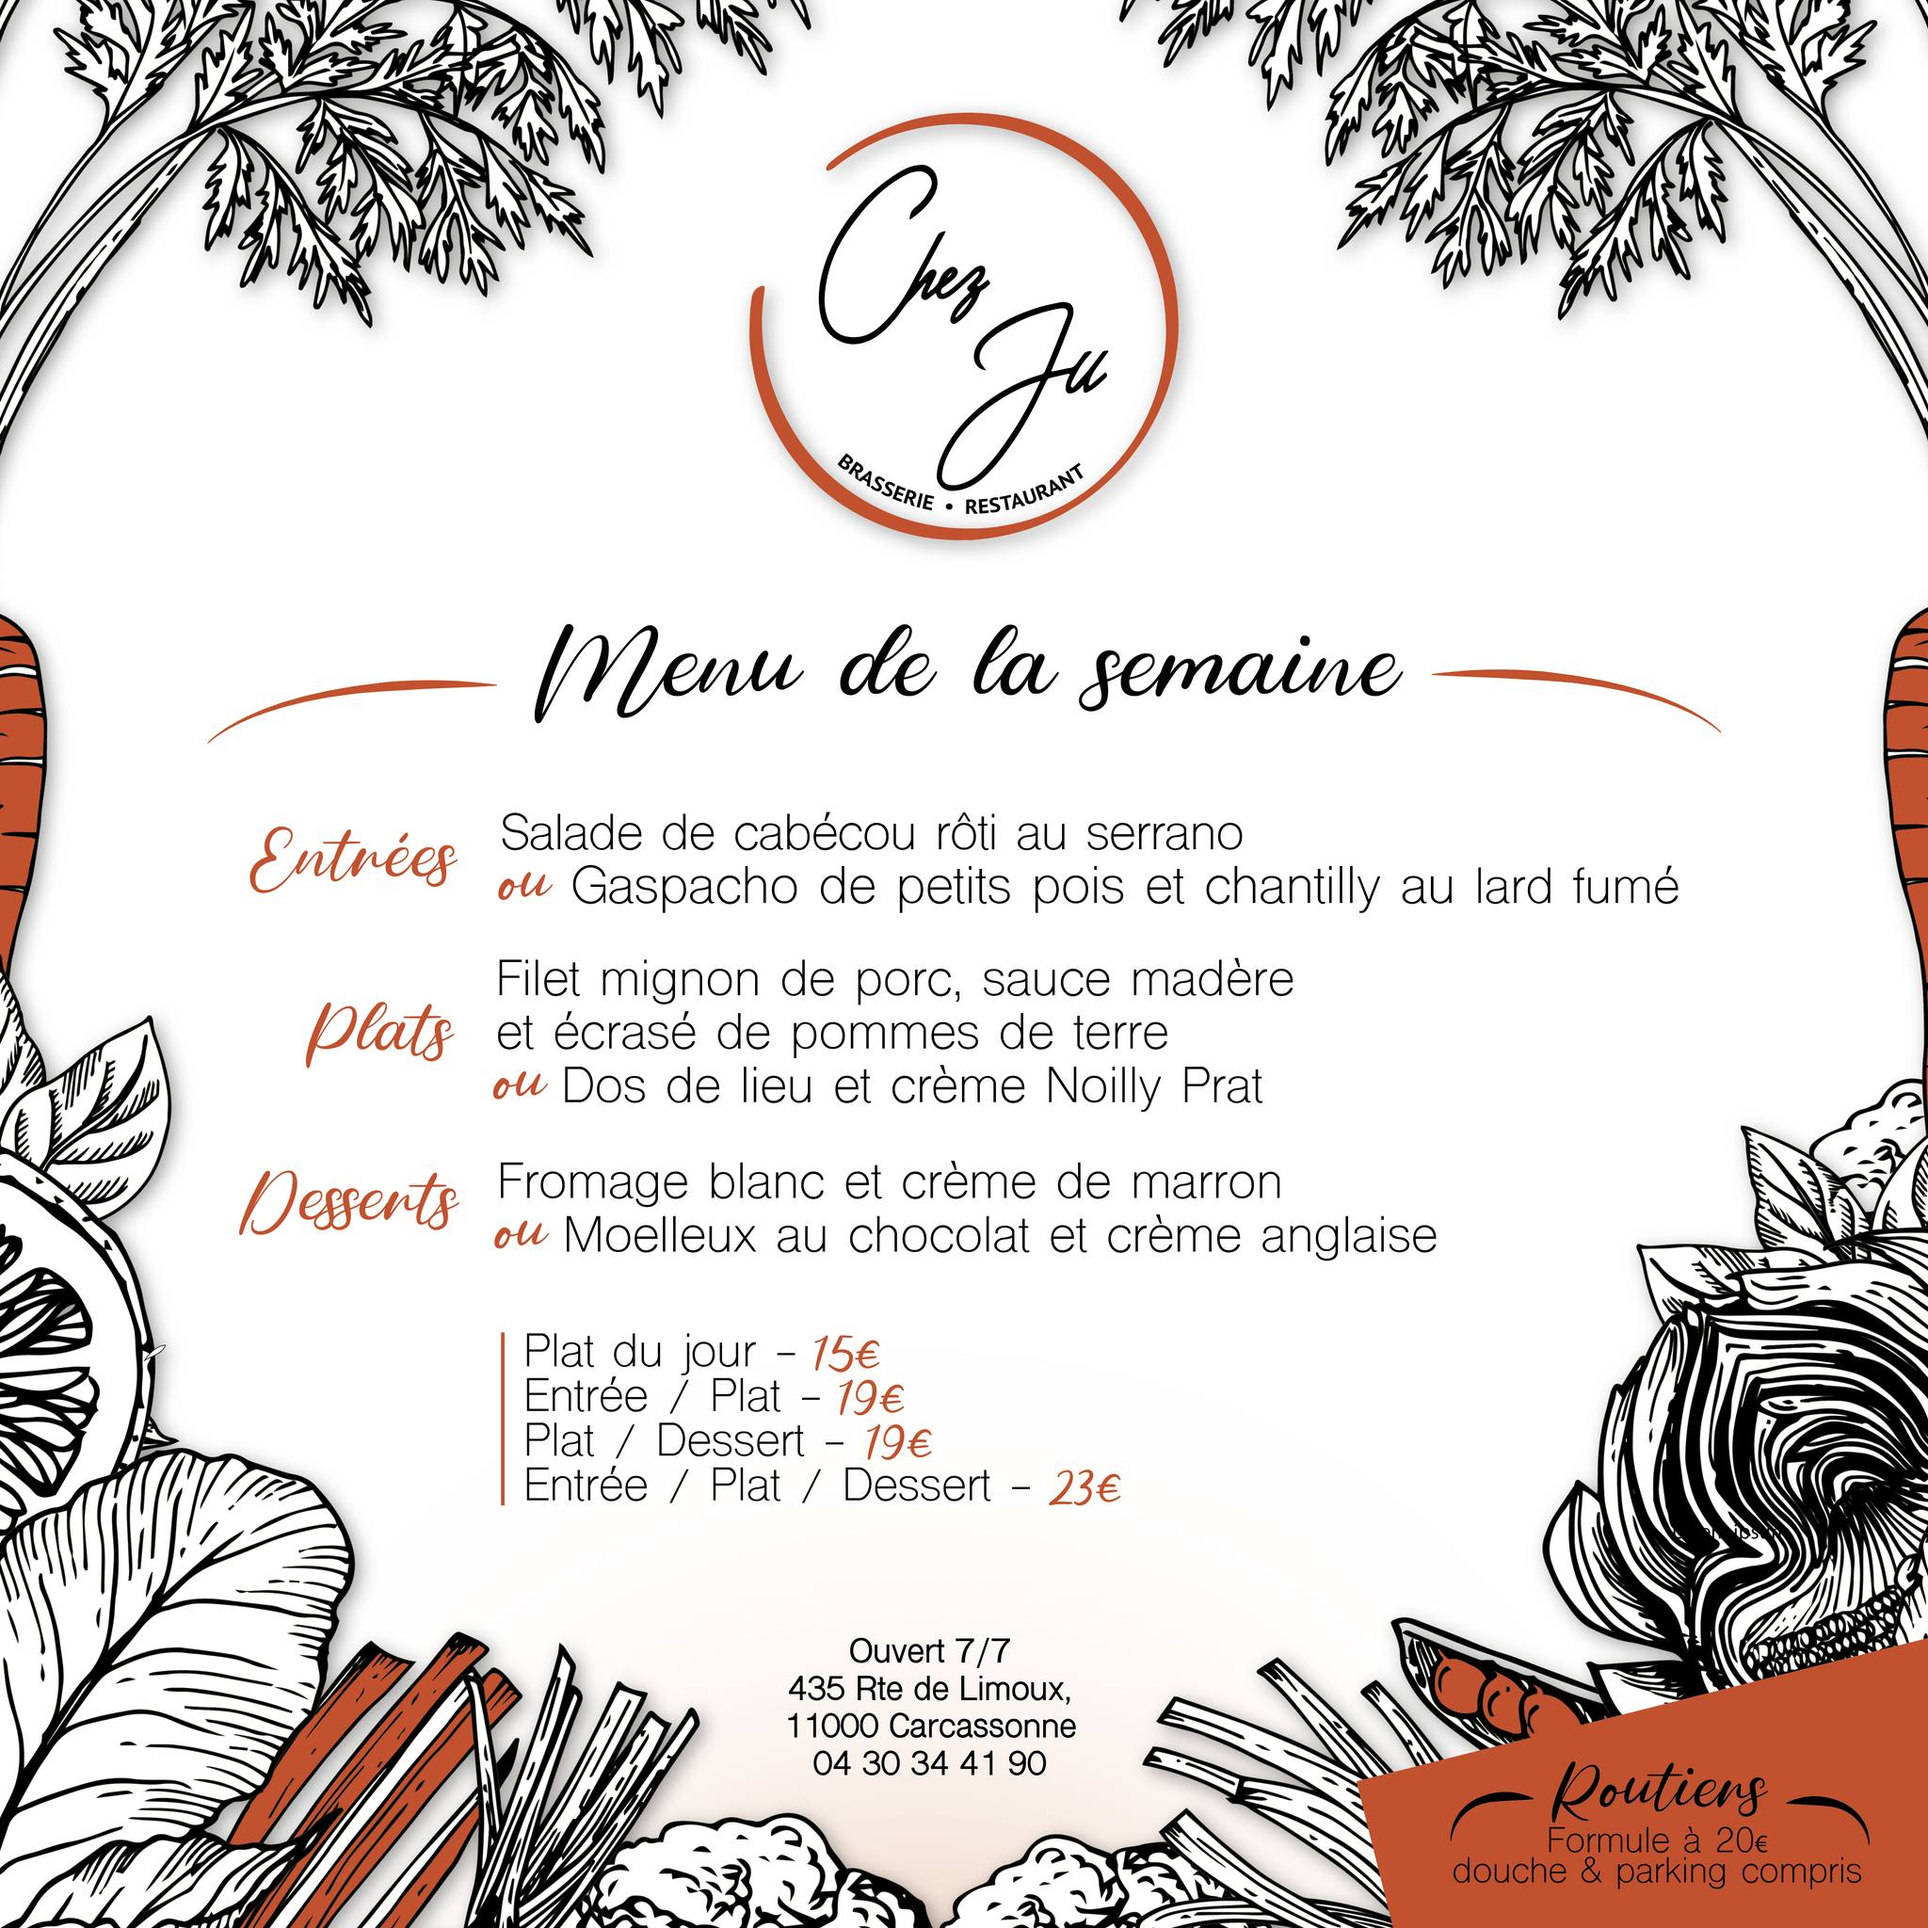
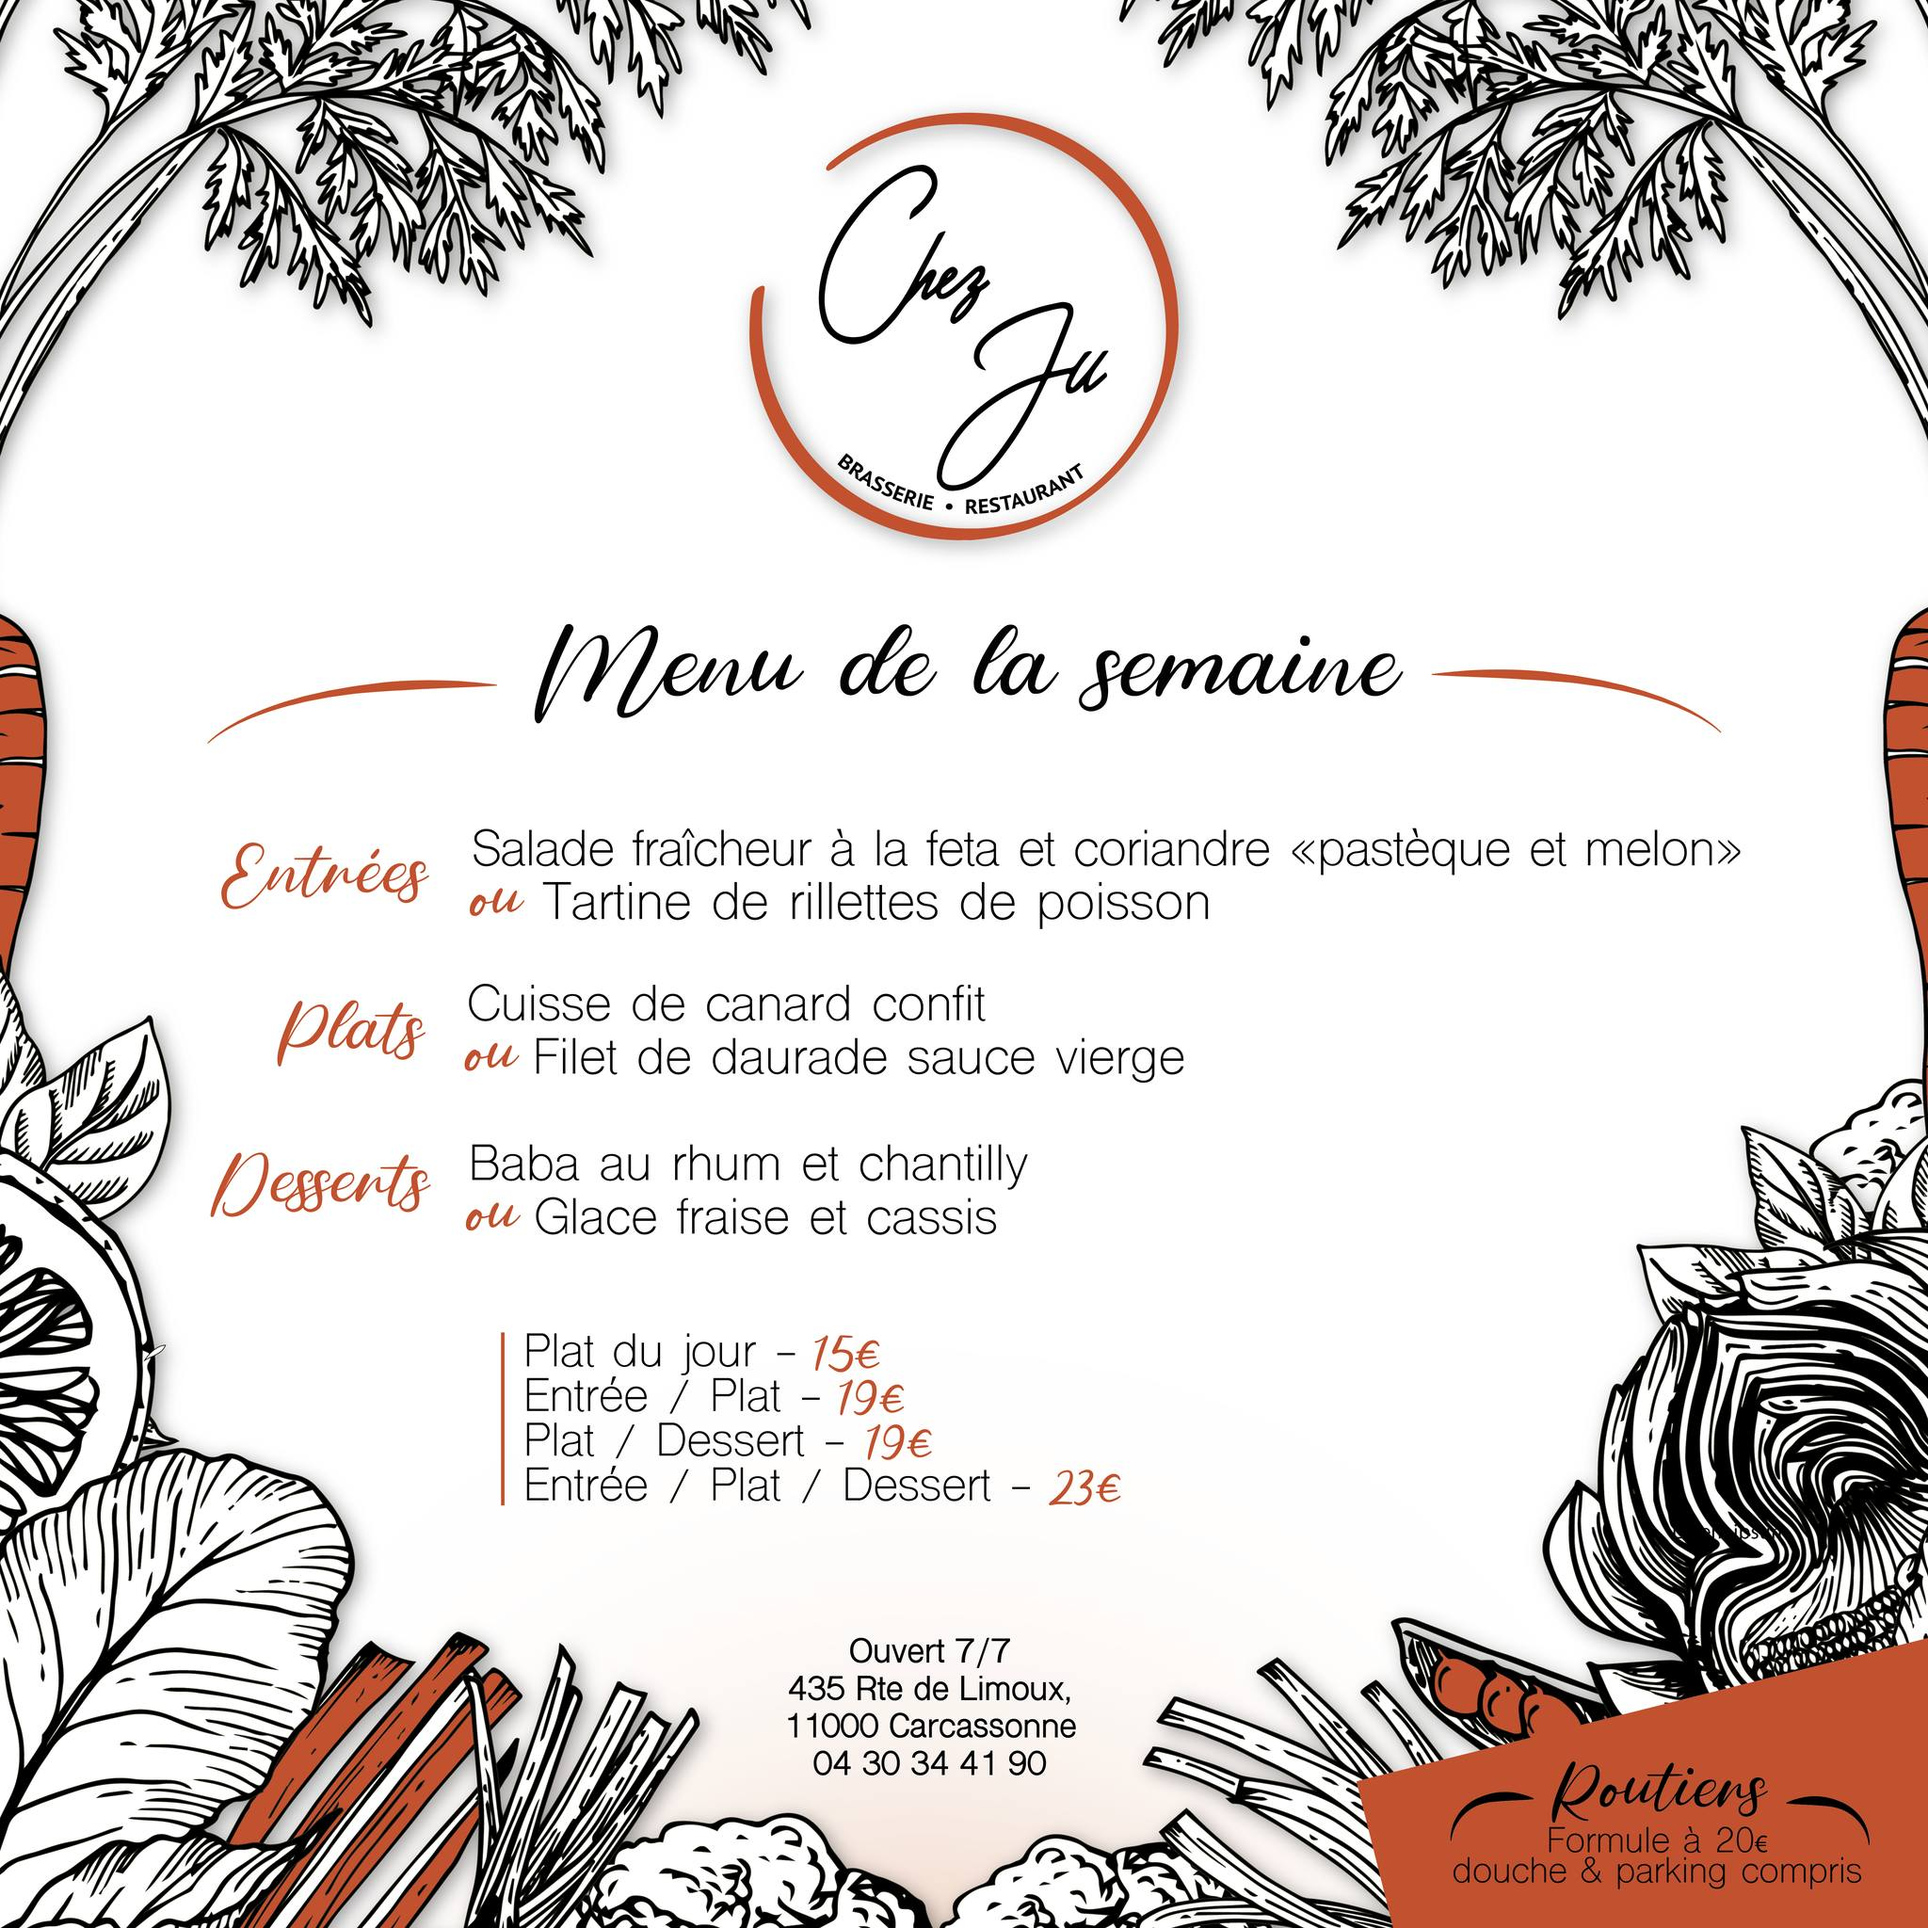
update: revise Instagram post with new URL and menu description for June 23-27

Changed region(s): [[0.0938, 0.4062, 0.875, 0.6562]]

diff --git a/components/home/InstagramFeed.vue b/components/home/InstagramFeed.vue
@@ -112,9 +112,9 @@ const instagramPosts = ref<InstagramPost[]>([
   {
     id: '2',
     imageUrl: '/images/instagram/menu_semaine.jpg',
-    postUrl: 'https://www.instagram.com/p/DK9LIOwi7Br/',
+    postUrl: 'https://www.instagram.com/p/DLNe-QBP5si/',
     title: 'Menu de la semaine',
-    description: 'Du lundi 16 juin au vendredi 20 juin'
+    description: 'Du lundi 23 juin au vendredi 27 juin'
   },
   {
     id: '3',
